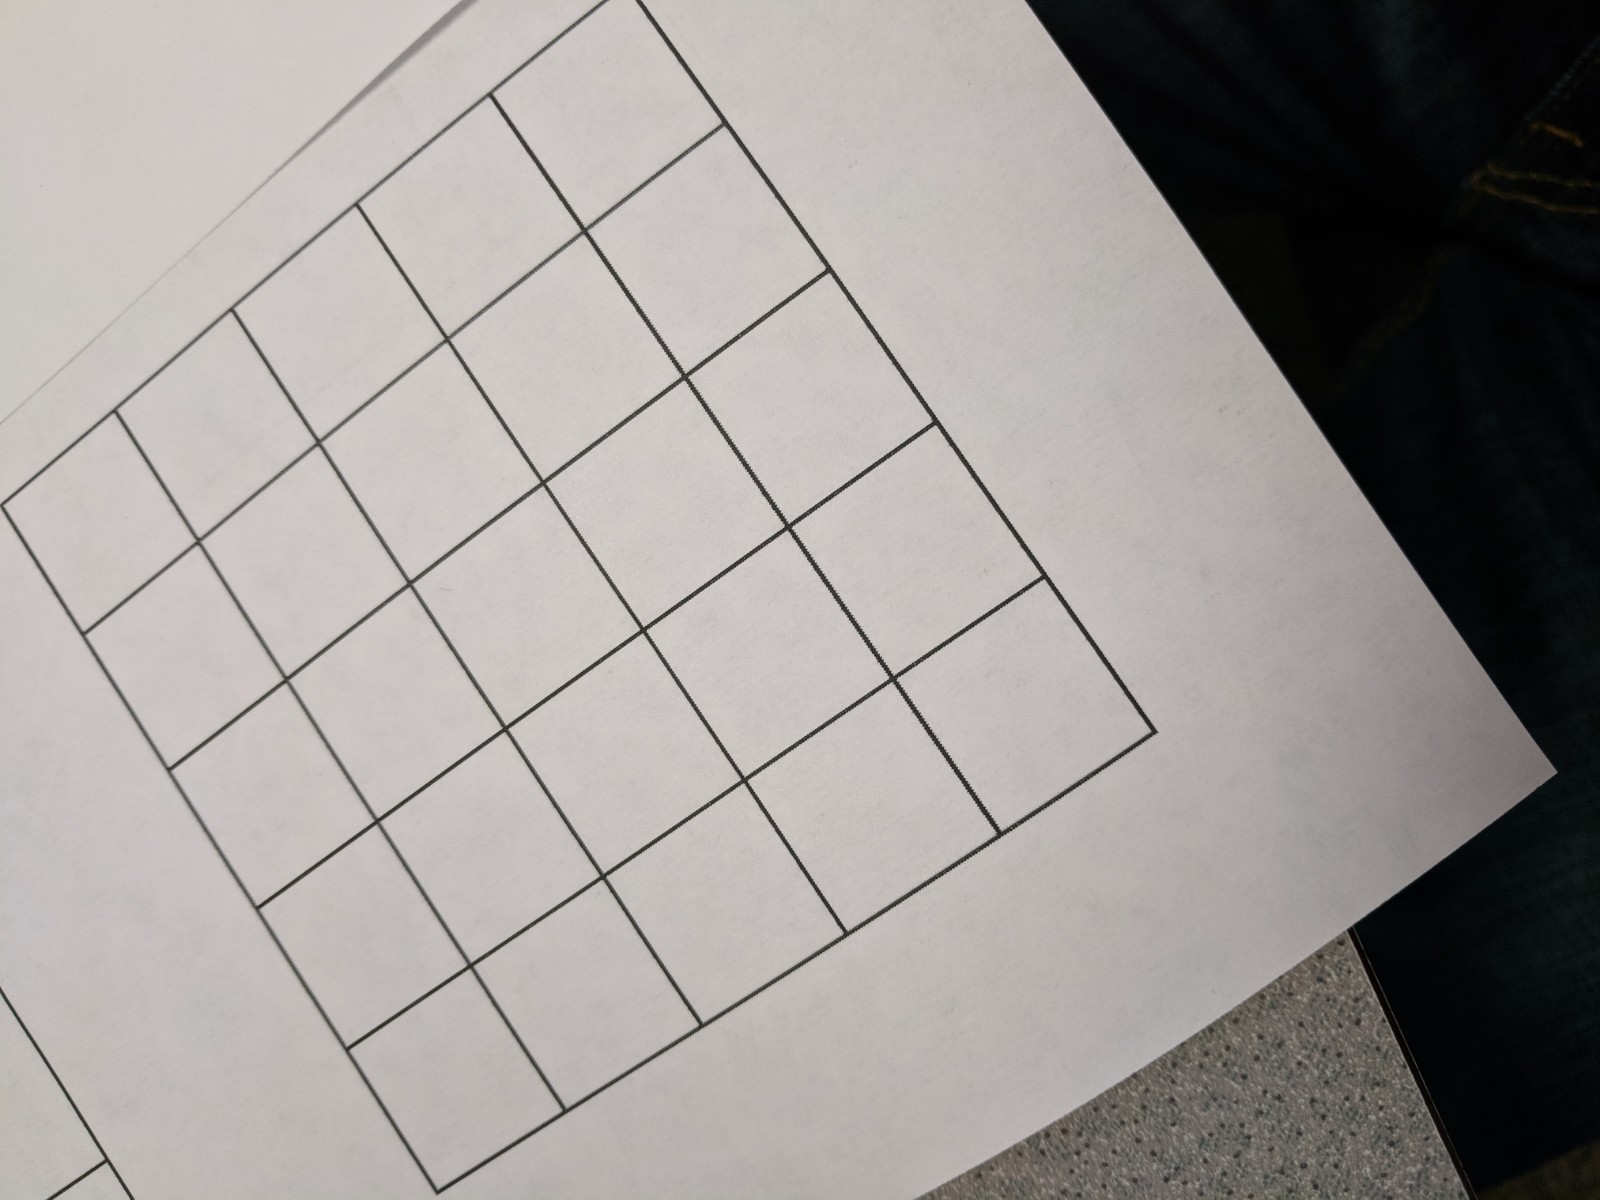
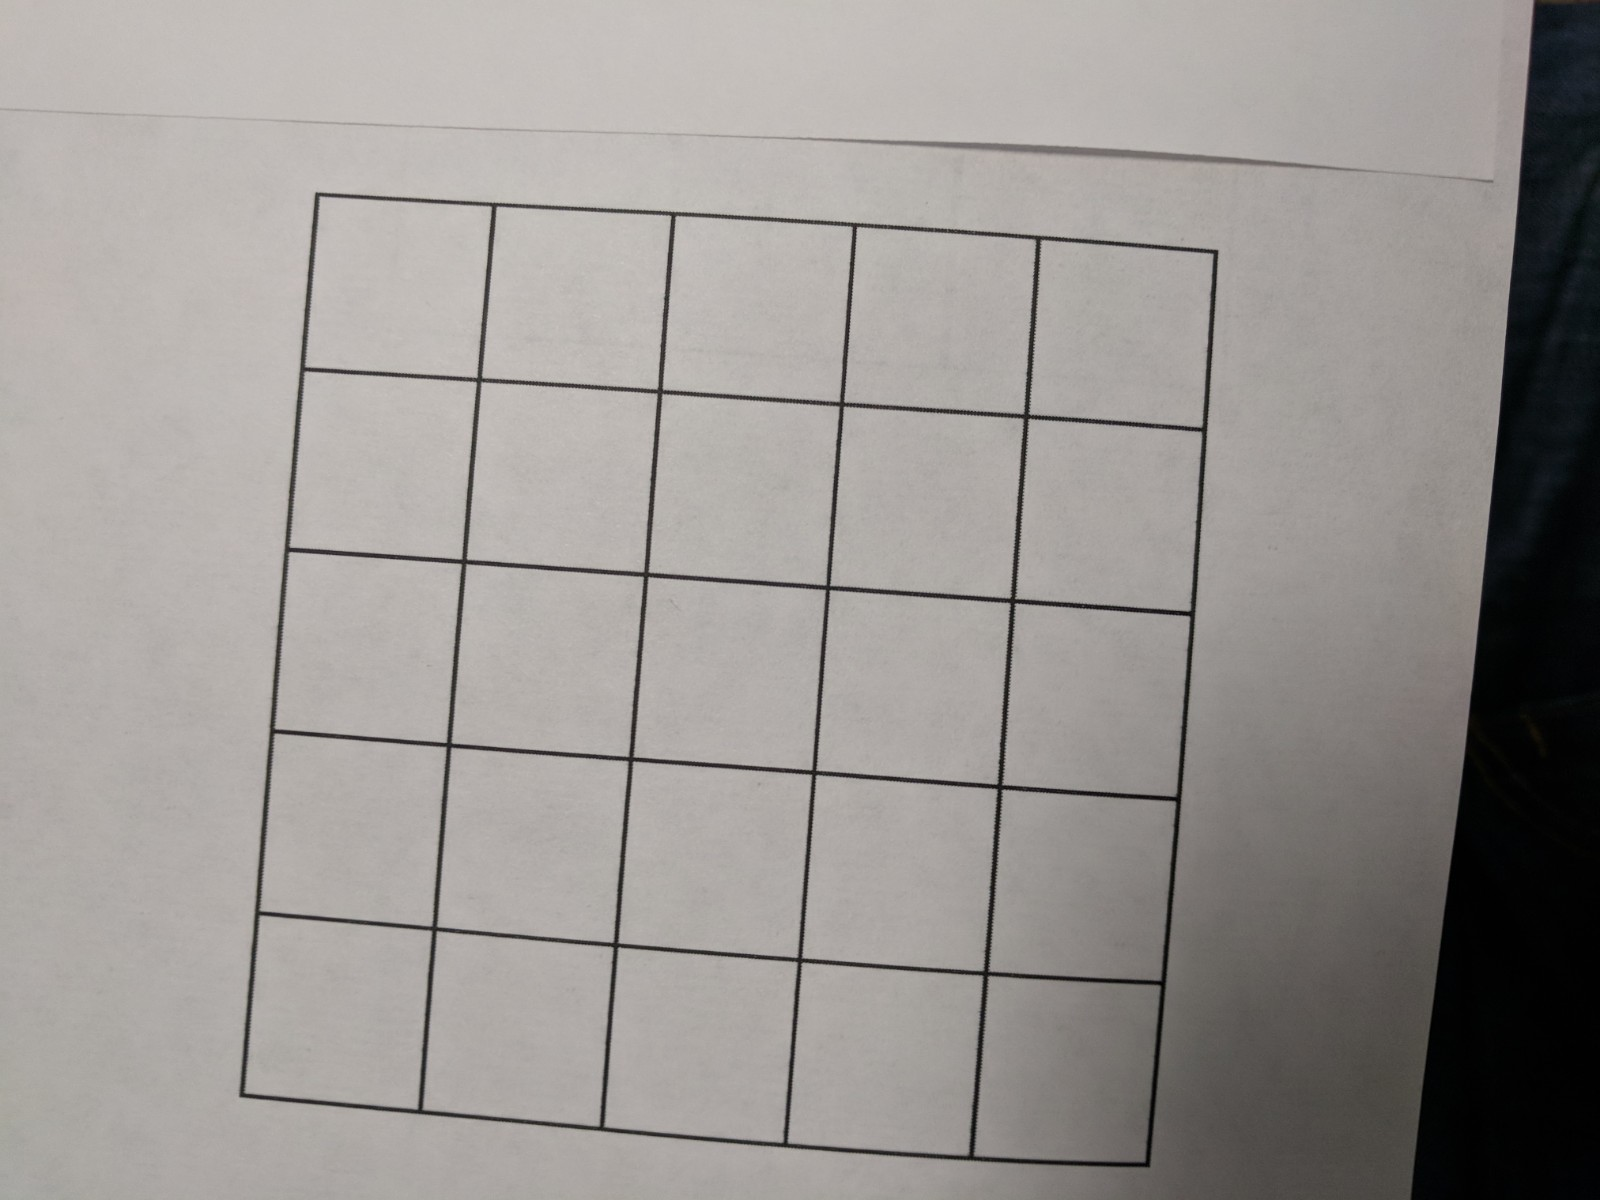
finished creating the board recognizer

diff --git a/board_recognizer.py b/board_recognizer.py
@@ -9,4 +9,68 @@ create a new picture with the gameboard centered,
 see if there are hits/misses on the board already,
 
 """
+#all needed imports
+import numpy as np
+import cv2
+import HelpMeth as hm
 
+
+#taking in the photos
+imgFrom = 'grid_photos/'
+two = '2x2_v2.jpg'
+three = '3x3_v3.jpg'
+four = '4x4_v4.jpg'
+five = '5x5_v1.jpg'
+seven = '7x7_v3.jpg'
+ten = '10x10_v4.jpg'
+
+#Global variables I may need
+out_img_size = 500
+EMPTY = 0
+HIT = 1
+MISS = 2
+
+#The following code was largely based on a sudoku solver from here:
+#   http://opencvpython.blogspot.com/2012/06/sudoku-solver-part-2.html
+#   http://opencvpython.blogspot.in/2012/06/sudoku-solver-part-3.html
+
+'''
+This method is going to find the playing board in an image and return the board it finds centered in the image
+'''
+def find_playing_board(img, out_size):
+    gray = cv2.cvtColor(img, cv2.COLOR_BGR2GRAY)
+    
+    #noise removal and threshold (from part 2)
+    gray = cv2.GaussianBlur(gray, (15, 15), 0)
+    thresh = cv2.adaptiveThreshold(gray, 255, 1, 1, 15, 2)
+    
+    #find the playing board itself (the outside edge of the board)
+    #find the biggest blob in the image
+        #This finds just the corners of the contour
+    _,contours,_ = cv2.findContours(thresh, cv2.RETR_TREE, cv2.CHAIN_APPROX_SIMPLE)
+        #This finds all the points on the contour
+#    _,contours,_ = cv2.findContours(thresh, cv2.RETR_TREE, cv2.CHAIN_APPROX_NONE)
+    big_blob = hm.biggest_blob(contours) #biggest blob out of all the blobs in the image (should be the board)
+    
+#    con_on_img = cv2.drawContours(img, big_blob, -1, (255,0,0), 50)
+#    print(big_blob)
+#    hm.showImage('This is where the biggest contour is in this image', con_on_img)
+    
+    #(From part 3)
+    new_blob = hm.resize_corr(big_blob) 
+    change_arr = np.array([[0,0],[out_img_size-1, 0],[0,out_img_size-1],[out_img_size-1,out_img_size-1]], np.float32)
+    
+    #now input array is new_blob, and desired output is change_arr
+    return_val = cv2.getPerspectiveTransform(new_blob, change_arr)
+    centered_board = cv2.warpPerspective(img, return_val, (out_img_size, out_img_size)) #rotate it so it is centered and correct
+    
+    return centered_board
+
+
+'''
+This method will take an image with the given playing board and identify the squares in it
+It will return a 2D array that will represent if the given spot is a hit, miss, or not yet guessed (empty)
+'''
+def find_squares(board):
+    game_state = [[]]
+    return game_state

diff --git a/HelpMeth.py b/HelpMeth.py
@@ -60,3 +60,43 @@ def read_in_files(loc):
         file = cv2.imread(file)
         pieces.append(file)
     return pieces
+
+
+#For the battleship game: given contours and a hierarchy, return the largest blob
+    #This code was taken from here: http://opencvpython.blogspot.com/2012/06/sudoku-solver-part-2.html
+def biggest_blob(contours):
+    biggest = None
+    max_area = 0
+    for con in contours:
+        area = cv2.contourArea(con)
+        if area > 100:
+            peri = cv2.arcLength(con, True)
+            approx = cv2.approxPolyDP(con, 0.02*peri, True)
+            if area > max_area and len(approx)==4:
+                biggest = approx
+                max_area = area
+    return biggest
+    
+    
+#Resize the 4 corners of the game board in array like [t-left, t-right, b-left, b-right]
+#Code from part 3: http://opencvpython.blogspot.in/2012/06/sudoku-solver-part-3.html
+def resize_corr(b_corners):
+    b_corners = b_corners.reshape((4, 2))
+    new_corners = np.zeros((4, 2), dtype = np.float32)
+    #reorder the points of the blob from random to t-left, t-right, b-left, b-right
+    #with x,y coorinates: y+x: t-left is smallest sum, b-right is max sum (of both)
+    #with x,y coords: y-x: t-right is minimum, b-left is max
+    add = b_corners.sum(1)
+    new_corners[0] = b_corners[np.argmin(add)] #top left corner
+    new_corners[3] = b_corners[np.argmax(add)] #bottom right corner
+    diff = np.diff(b_corners, axis = 1)
+    new_corners[1] = b_corners[np.argmin(diff)] #top right corner
+    new_corners[2] = b_corners[np.argmax(diff)] #bottom left corner
+    
+    return new_corners
+
+
+
+
+
+

diff --git a/final_main_test.py b/final_main_test.py
@@ -1,0 +1,24 @@
+"""
+William Breen
+
+Computer Vision Final Project
+This is a dummy file for testing things
+"""
+
+#import cv2
+#import numpy
+import HelpMeth as hm
+#import game_logic as g_log
+import board_recognizer as br
+
+photos = 'grid_photos/'
+grid_size = 500 
+
+grids = hm.read_in_files(photos)
+final_boards = []
+
+for pic in grids:
+    board = br.find_playing_board(pic, grid_size)
+    final_boards.append(board)
+    #hm.showSeries('these are the final boards the algo found', board)
+
